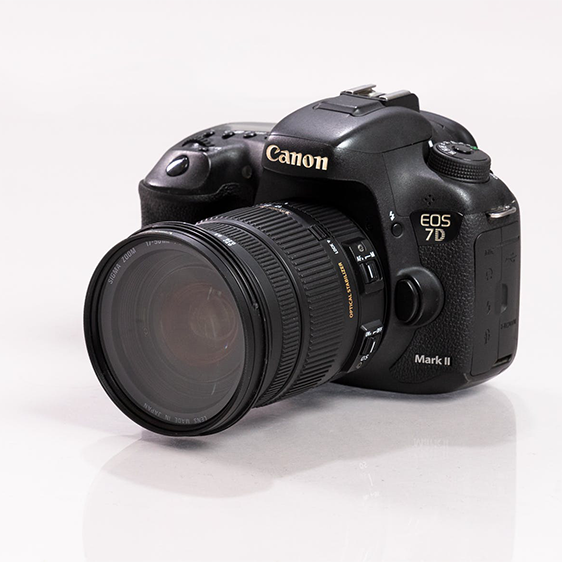
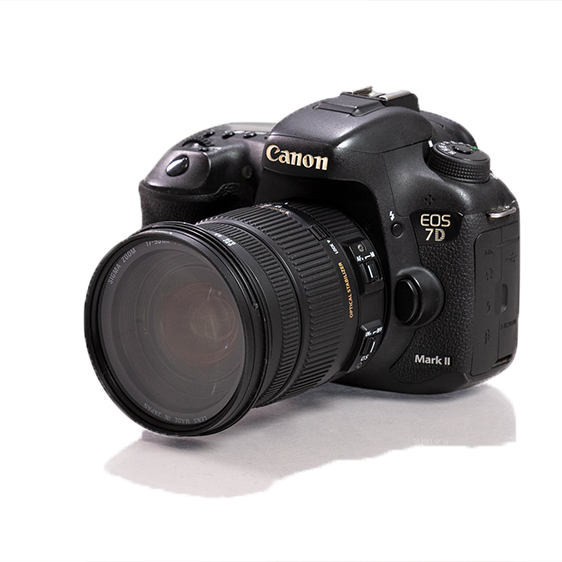
slider animeted

diff --git a/styles/style.css b/styles/style.css
@@ -48,7 +48,11 @@ hr{
     color: #ffffff;
 }
 .banner-part img{
-    width: 80%;
+    width: 75%;
+}
+.banner-part img:hover{
+    transform: scale(1.2);
+    transition: transform 3s;
 }
 
 /*---------- Sponsor 
